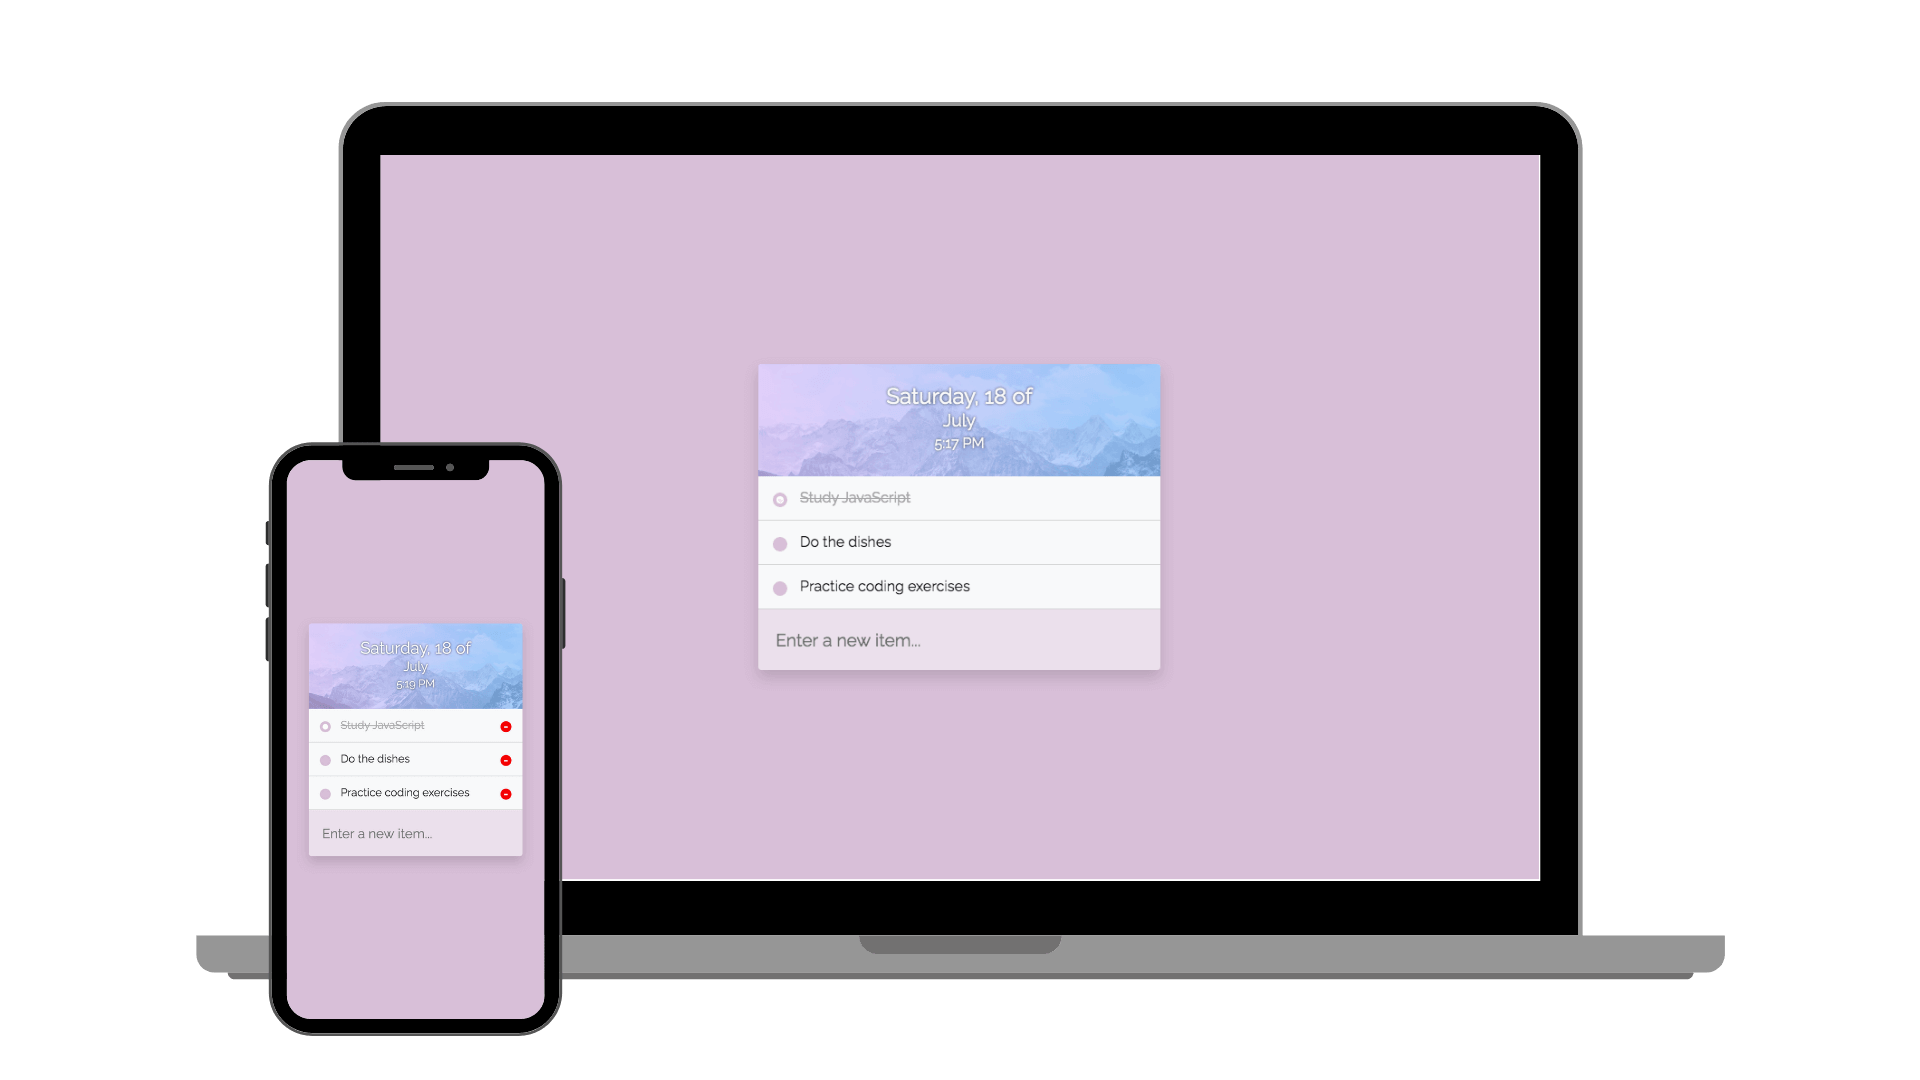
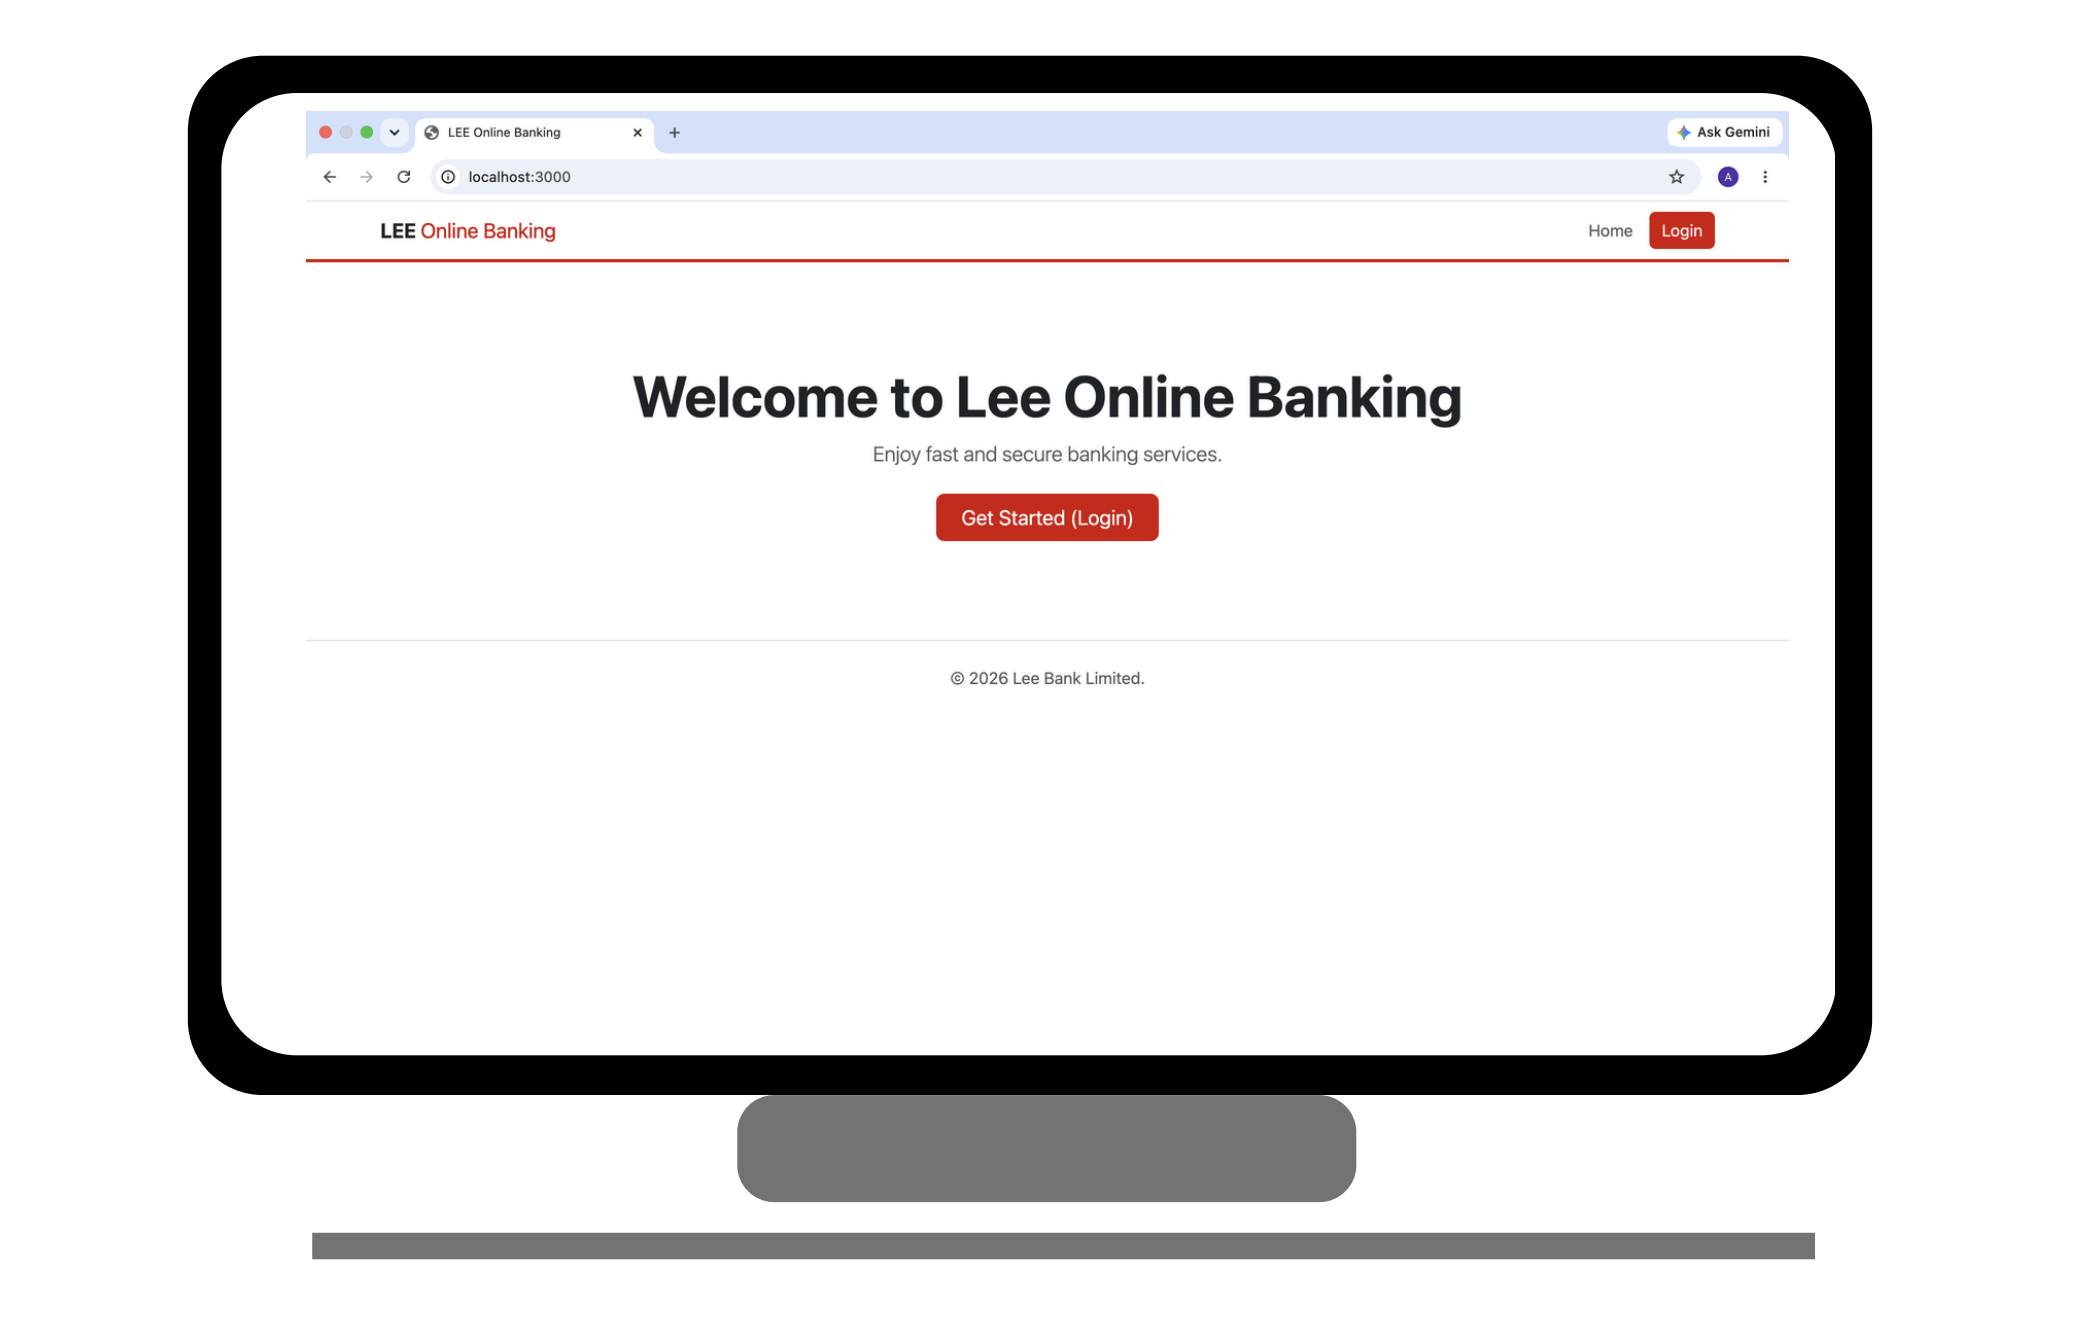
Add online banking project

diff --git a/src/components/portfolio/PortfolioBlock.js b/src/components/portfolio/PortfolioBlock.js
@@ -7,16 +7,25 @@ function PortfolioBlock(props) {
    return (
       <Box display={'flex'} flexDirection={'column'} justifyContent={'center'} alignItems={'center'}>
          <Box
-            component={'img'}
-            src={image}
-            alt={`${title} project thumbnail`}
             sx={{
                width: {xs: '85vw', sm: '420px'},
                height: {xs: '220px', sm: '280px'},
-               objectFit: 'cover',
-               borderRadius: '8px'
+               borderRadius: '8px',
+               overflow: 'hidden'
             }}
-         />
+         >
+            <Box
+               component={'img'}
+               src={image}
+               alt={`${title} project thumbnail`}
+               sx={{
+                  display: 'block',
+                  width: '100%',
+                  height: '100%',
+                  objectFit: 'cover'
+               }}
+            />
+         </Box>
          <h1 style={{fontSize: '2rem'}}>{title}</h1>
          <Box className={'portfolio'} display={'flex'} flexDirection={'column'} gap={'0.5rem'}
               alignItems={'center'} fontSize={'1.5rem'} py={'2rem'}>

diff --git a/src/info/Info.js b/src/info/Info.js
@@ -102,13 +102,13 @@ export const info = {
             live: "https://drive.google.com/file/d/13BSGTvybm8EppH5Yo1T83p7cskeGA-8R/view?usp=drive_link",
             source: "https://github.com/unbee-lee/ParkMate",
             image: mock2
+        },
+        {
+            title: "Online banking web",
+            live: "https://github.com/unbee-lee/online_banking_web",
+            source: "https://github.com/unbee-lee/online_banking_web",
+            image: mock3
         }
-        // {
-        //     title: "Project 3",
-        //     live: "https://paytonpierce.dev",
-        //     source: "https://github.com/paytonjewell",
-        //     image: mock3
-        // },
         // {
         //     title: "Project 4",
         //     live: "https://paytonpierce.dev",